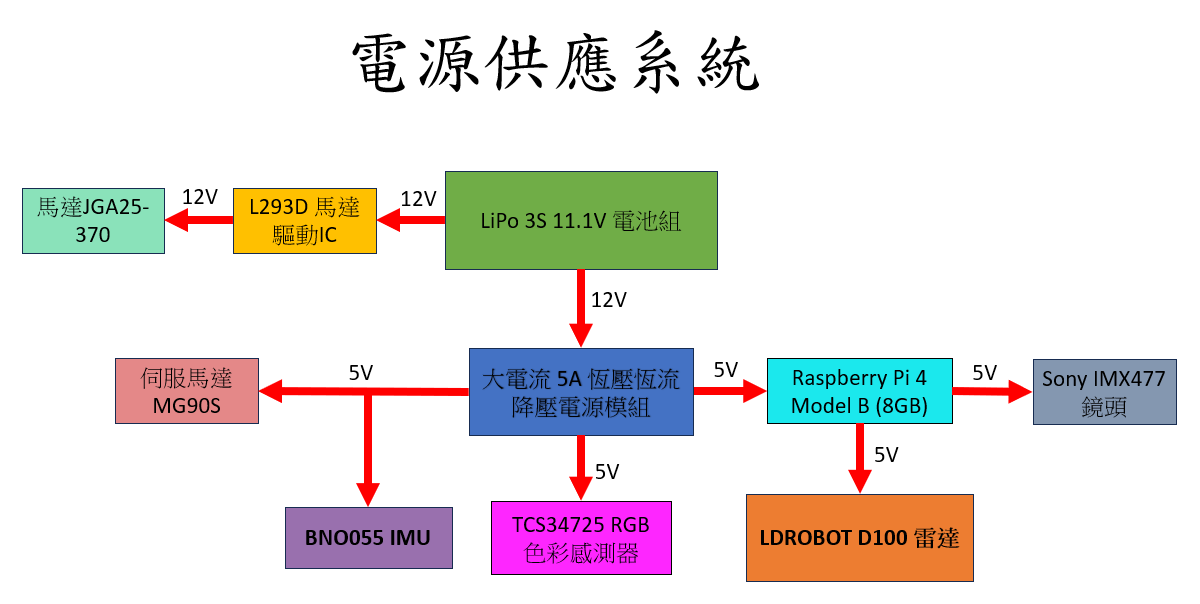
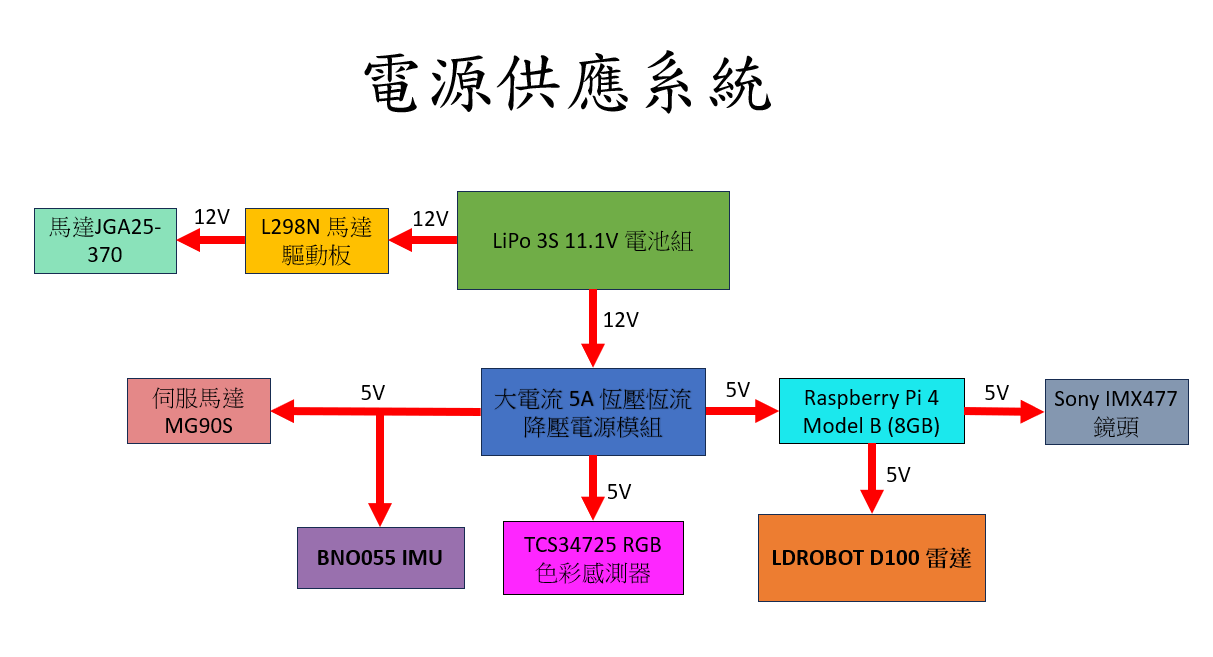
Update READEME.md

Changed region(s): [[0.0, 0.2682, 0.9867, 0.9834], [0.2775, 0.0596, 0.6475, 0.1788]]

diff --git a/schemes/Power_and_Sensor_Management/Sensor_Selection_and_Integration/READEME.md b/schemes/Power_and_Sensor_Management/Sensor_Selection_and_Integration/READEME.md
@@ -13,7 +13,7 @@
 - 相容樹莓派與其他開發平台
 
 <div align="center">
-<img width="120" height="120" src="../../img/Sony_IMX477.png">
+<img width="150" height="120" src="../../../img/Sony_IMX477.png">
 </div>
 
 ## <div align="center">處理器</div>
@@ -30,7 +30,7 @@
 - 儲存：microSD 卡插槽（作業系統與資料儲存）
 - GPIO：40-pin GPIO 排針，相容於先前版本
 <div align="center">
-<img width="120" height="120" src="../../img/Raspberry_Pi.png">
+<img width="300" height="200" src="../../../img/Raspberry_pi.png">
 </div>
 
 ## <div align="center">光學雷達</div>
@@ -46,7 +46,7 @@
 - 通訊介面：USB / UART / CAN（依版本而異）
 - 應用範圍：機器人導航、地圖建構、自主避障、室內定位、SLAM
 <div align="center">
-<img width="120" height="120" src="../../img/D100_LiDAR.png">
+<img width="200" height="200" src="../../../img/D100.png">
 </div>
 
 ## <div align="center">降壓板</div> 
@@ -64,7 +64,7 @@
 - 具備：過溫保護、輸出短路保護、反接保護（部分版本）
 - 控制方式：可調電壓與電流（雙電位器設計）
 <div align="center">
-<img width="120" height="120" src="../../img/BNO_055_IMU.png">
+<img width="250" height="330" src="../../../img/5A_Buck_Converter.png">
 </div>
 
 ## <div align="center">陀螺儀</div> 
@@ -83,7 +83,7 @@
     * 陀螺儀：±125 / ±250 / ±500 / ±1000 / ±2000 dps
     * 磁力計：±1300 µT（x, y 軸），±2500 µT（z 軸）
 <div align="center">
-<img width="120" height="120" src="../../img/BNO_055_IMU.png">
+<img width="160" height="120" src="../../../img/BNO055.png">
 </div>
 
 ## <div align="center">顏色感測器</div> 
@@ -100,24 +100,23 @@
 - 模組常附白光 LED，可提升低光環境的辨識能力
 - 工作電壓：3.3V 或 5V（視模組而定）
 <div align="center">
-<img width="120" height="120" src="../../img/L293D.png">
+<img width="120" height="120" src="../../../img/TCS34725.png">
 </div>
 
 ## <div align="center">馬達控制晶片</div> 
-### L293D
-- L293D 是一款經典且廣泛使用的雙 H 橋馬達驅動晶片，可同時控制兩顆直流馬達的正反轉，或一個步進馬達的四相驅動。它可接受 TTL 邏輯訊號（如 Arduino、Raspberry Pi 輸出）作為控制輸入，並提供與控制邏輯隔離的馬達供電路徑，讓微控制器可以輕鬆控制較高電壓或電流的負載。
+### L298N
+- L298N 是一款常見的雙H橋馬達驅動模組，主要用於控制直流馬達與步進馬達的正反轉與速度調節。它基於 ST 公司推出的 L298N 晶片，可同時驅動兩個直流馬達，或一個雙極性步進馬達。
 
-    內部設計具備高電壓容忍度與過熱保護，是入門與教育領域常見的馬達控制方案。
+    模組可接受 5V 到 35V 的馬達電源輸入，並能提供最高約 2A 的輸出電流。透過 IN1~IN4 控制端搭配 PWM 訊號輸入，可靈活地控制馬達的啟動、停止、轉向與速度。
+    常見應用包括：機器人底盤、小型自走車、自動門控制等。
 
 #### 主要特色：
-- 雙通道 H 橋驅動，可驅動 2 個直流馬達或 1 個步進馬達
-- 工作電壓：4.5V ~ 36V（馬達電源）
-- 邏輯電壓：5V TTL 相容
-- 單通道最大輸出電流：600mA（峰值可達 1.2A）
-- 內建二極體保護（反向電壓保護）
-- 封裝形式：16-pin DIP 或 SOP，方便電路板焊接與實驗室應用
+- 雙H橋設計，可獨立控制兩顆馬達
+- 支援 PWM 調速
+- 內建散熱片與5V 穩壓輸出（可選擇是否啟用）
+- 適用於 Arduino、Raspberry Pi 等開發板
 <div align="center">
-<img width="120" height="120" src="../../img/L293D.png">
+<img width="200" height="200" src="../../../img/L298N.png">
 </div>
 
 ## <div align="center">伺服馬達</div> 
@@ -135,7 +134,7 @@
 - 重量：約 13.4g
 - 接頭：3-pin（PWM 訊號、VCC、GND）
 <div align="center">
-<img width="120" height="120" src="../../img/MG90S.png">
+<img width="120" height="120" src="../../../img/MG90.png">
 </div>
 
 ## <div align="center">直流減速馬達</div> 
@@ -154,7 +153,7 @@
 - 編碼器：霍爾編碼器，雙通道輸出（A/B 相），一般為 11脈衝/圈（經減速後脈衝數提升）
 - 編碼器輸出：TTL 輸出，可用中斷方式讀取
 <div align="center">
-<img width="120" height="120" src="../../img/JGA25_370.png">
+<img width="200" height="200" src="../../../img/DC_Motor.png">
 </div>
 
 

diff --git a/schemes/Part_List/README.md b/schemes/Part_List/README.md
@@ -1,14 +1,14 @@
 - [Raspberry Pi 4 Model B - 8GB RAM](https://www.raspberrypi.com/products/raspberry-pi-4-model-b/)
 - [JGA25-370 DC 12V 620RPM Gearbox Motor](https://www.amazon.com/JGA25-370-Electric-Torque-1360RPM-620rpm/dp/B0DJXMDH4Y?th=1)
 - [MG90S Micro Servo Motor](https://www.taiwaniot.com.tw/product/mg90s-14g%E5%85%A8%E9%87%91%E5%B1%AC%E9%BD%92%E8%88%B5%E6%A9%9F-servo-%E4%BC%BA%E6%9C%8D%E6%A9%9F/)
-- [L293D Quad Half-H Driver IC](https://makerselectronics.com/product/l293d-quadruple-half-h-driver-dip-16?srsltid=AfmBOor8x6YpBt5xD3M4oFWECU7LvvDw8eQ7Qa9RUXldlsAVvPvdkIHF)
+- [L298N](https://www.jmaker.com.tw/products/product293)
 - [BNO055 IMU](https://www.remisys.com.tw/products/bno055-absolute-orientation-sensor)
 - [SONY IMX477](https://www.taiwaniot.com.tw/product/sony-imx477-%E6%94%9D%E5%BD%B1%E9%8F%A1%E9%A0%AD%E6%A8%A1%E7%B5%84-1230%E8%90%AC%E5%83%8F%E7%B4%A0-160%E5%BB%A3%E8%A7%92-%E6%94%AF%E6%8F%B4%E6%A8%B9%E8%8E%93%E6%B4%BE%E3%80%81jetson-nano/)
 - [Desire Power V8 11.1V 1300mAh 35C-70C 3S 鋰聚合物電池](https://shopee.tw/-%E6%90%9E%E5%95%A5%E9%A3%9B%E6%A9%9F-Desire-Power-V8-11.1V-1300mAh-35C-70C-3S%E9%8B%B0%E9%9B%BB%E6%B1%A0LiPo-BSMI%E8%AA%8D%E8%AD%89-i.17393576.2036942264)
 - [High Current 5A Constant Voltage Constant Current Buck Power Supply Module](https://shopee.tw/%E8%8E%86%E6%B4%8B-DC1.25%EF%BD%9E36V-5A%E6%81%86%E5%A3%93%E6%81%86%E6%B5%81%E7%A9%A9%E5%A3%93%E9%99%8D%E5%A3%93%E6%A8%A1%E7%B5%84-1483-%E5%A4%A7%E6%B4%8B%E5%9C%8B%E9%9A%9B%E9%9B%BB%E5%AD%90-i.26482219.29381540169?sp_atk=151e46e7-d8af-458d-b241-22c47345be6d&xptdk=151e46e7-d8af-458d-b241-22c47345be6d)
 - [12mm Tact Switch 4Pin](https://www.ltc.com.tw/products/swtack126q3?srsltid=AfmBOoqa5NC68h5vsjJj31R0cWCgGWVAmQfi6TSZ_v5ukIABcZczbuqb)
 - [TCS34725 RGB color sensor](https://www.taiwansensor.com.tw/product/tcs34725-rgb-%E9%A1%8F%E8%89%B2%E8%BE%A8%E8%AD%98%E6%84%9F%E6%B8%AC%E5%99%A8-color-sensor-%E9%A1%8F%E8%89%B2%E6%84%9F%E6%B8%AC%E5%99%A8%E6%A8%A1%E7%B5%84/?srsltid=AfmBOoplI0stICZykyBtZ_3BPAPqAtbWGnNIdRK3to_qNf-fLa1v2t6_)
-- [6*6*5mm微動輕觸開關](https://www.jmaker.com.tw/products/product136)
+- [6x6x5mm微動輕觸開關](https://www.jmaker.com.tw/products/product136)
 - [LDROBOT D100 LiDAR Kit](https://www.robotshop.com/products/ldrobot-d100-lidar-kit?srsltid=AfmBOooBTeIhuehWJ-AaLicw97fb5cjI5xgxR_DCEcrbjxARmG5kitto)
 - [搖頭開關 3A-250VAC 6A-125VAC MTS-1連動開關](https://shopee.tw/product/26482219/490434892)
 - [XH2.5mm 4P 公座90度](https://jin-hua.com.tw/page/product/show.aspx?num=10084&lang=TW)

diff --git a/schemes/Mobility_Management/Chassis_Fabrication_and_Material_Selection.md b/schemes/Mobility_Management/Chassis_Fabrication_and_Material_Selection.md
@@ -39,7 +39,7 @@
     </tr>
     <tr>
       <td>
-        <img width="300" src="../../img/.png" alt="光固化機台">
+        <img width="300" src="../../img/Light_curing.png" alt="光固化機台">
       </td>
       <td>
         <img width="320" src="../../img/3d_Printer.png" alt="光固化成品">
